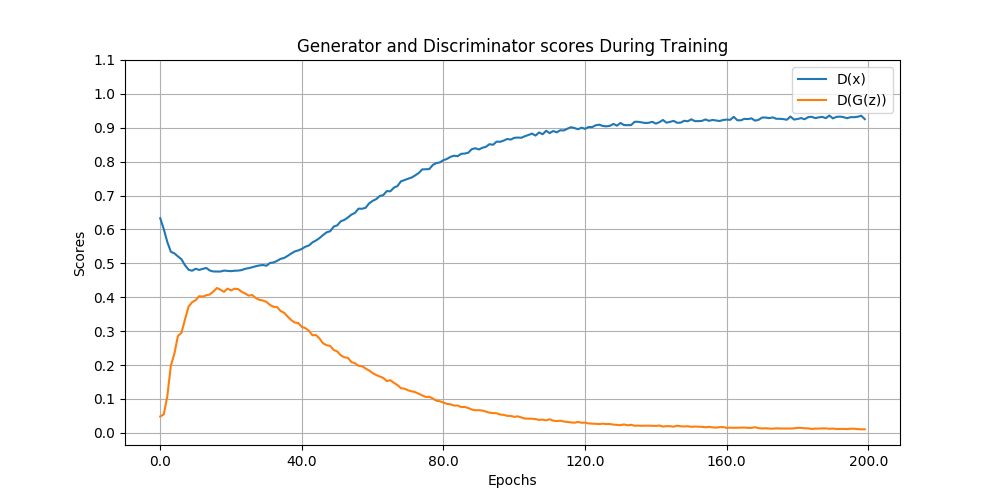
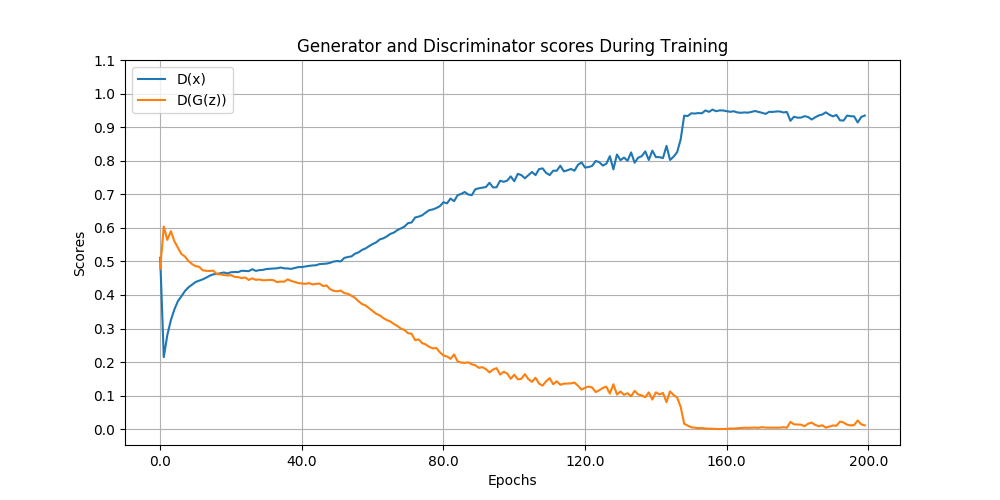
FixBug

diff --git a/W10_resetD_dcgan/dcgan.py b/W10_resetD_dcgan/dcgan.py
@@ -352,13 +352,14 @@ for j, epoch in enumerate(range(start_epoch,opt.n_epochs+1)):
 			save_model(discriminator,optimizer_D,epoch,opt.model_save_path+"/tmp_D.pt")
 			trainG = True
 			nb_save = nb_save+1
-	elif D_x[j] > 0.7 and D_G_z[j] < 0.2: 
+	if D_x[j] > 0.7 and D_G_z[j] < 0.2: 
 	#elif D_x[j] < 0.2 and D_G_z[j] > 0.6: 
-		print("Load previous model for reset D")
-		load_model(discriminator,optimizer_D,opt.model_save_path+"/tmp_D.pt")
-		os.remove(opt.model_save_path+"/tmp_D.pt")
-		trainG = False
-		nb_load = nb_load+1
+		if os.path.exists(opt.model_save_path+"/tmp_D.pt"):
+			print("Load previous model for reset D")
+			load_model(discriminator,optimizer_D,opt.model_save_path+"/tmp_D.pt")
+			os.remove(opt.model_save_path+"/tmp_D.pt")
+			trainG = False
+			nb_load = nb_load+1
 	
 	# Save samples
 	if epoch % opt.sample_interval == 0:
